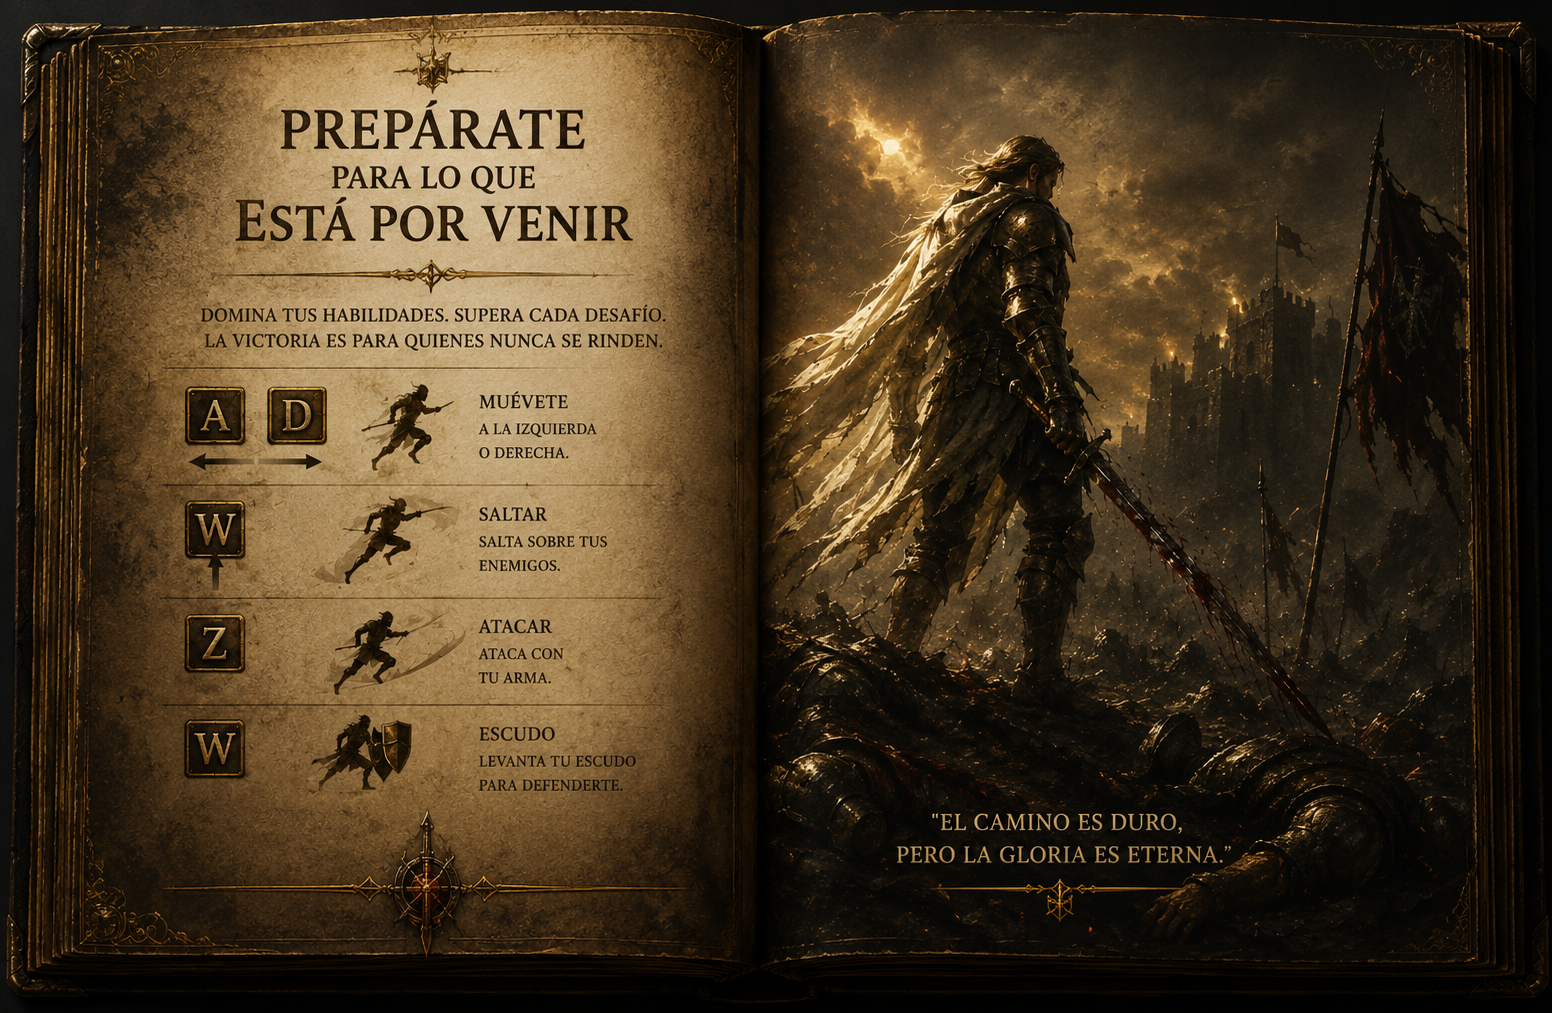
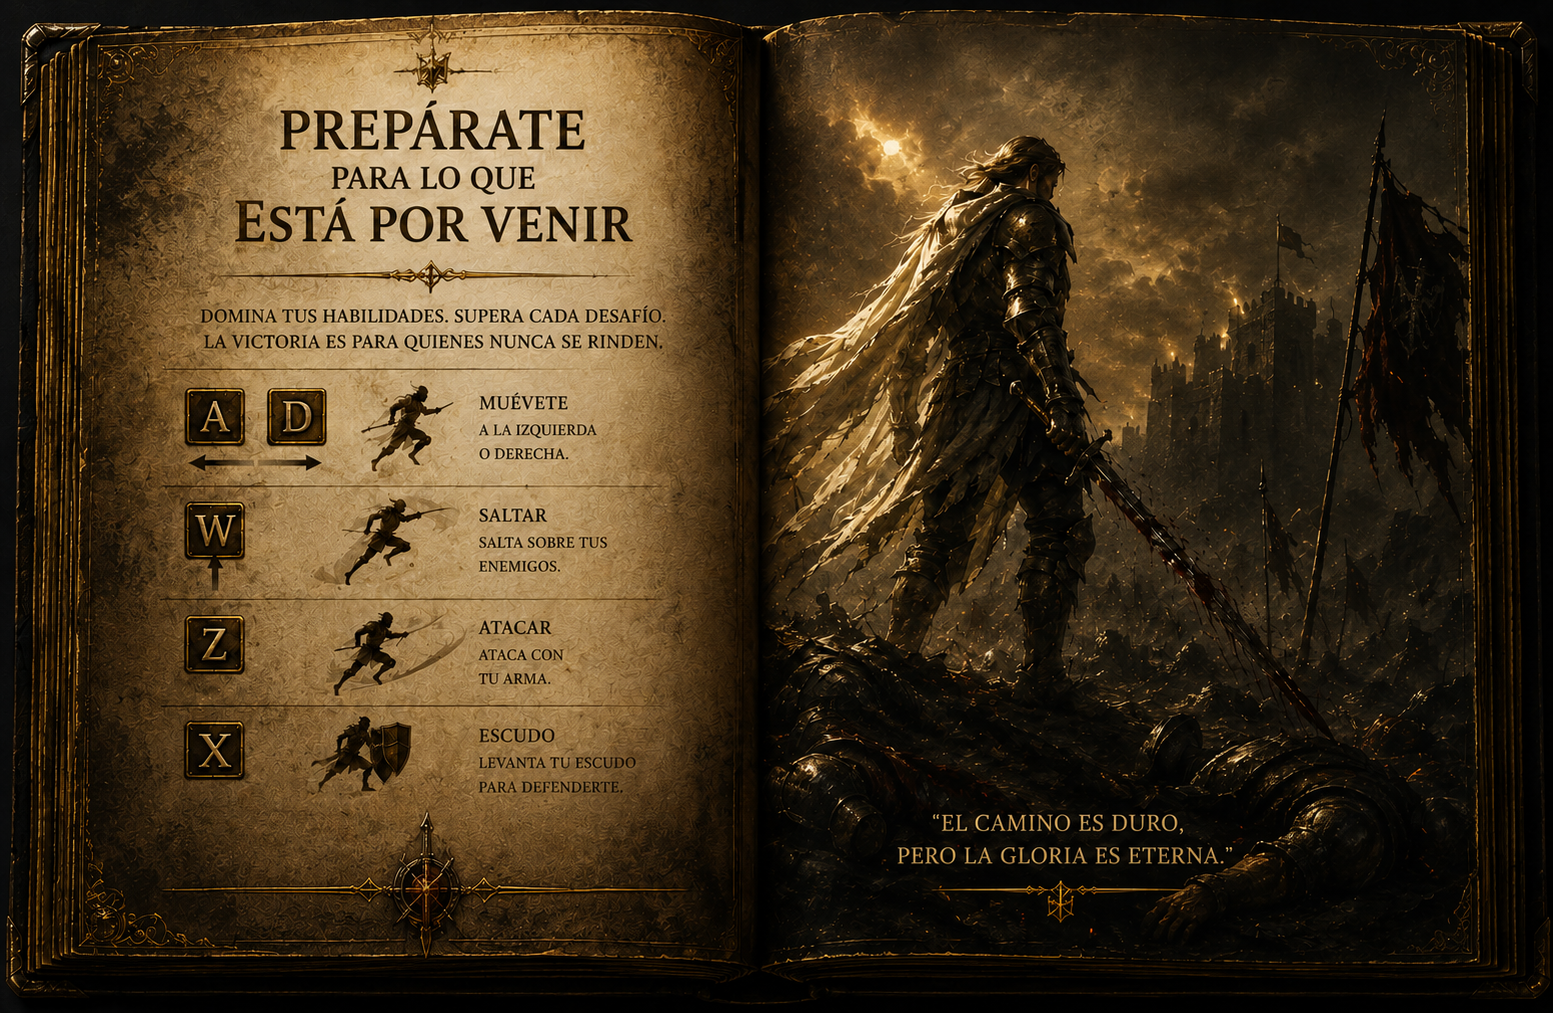
correciones finales, juego listo y funcional, siguiente paso hacer el ejecutable

diff --git a/juego/jugador.cpp b/juego/jugador.cpp
@@ -1,8 +1,8 @@
 #include "jugador.h"
 
-// ════════════════════════════════════════════════════════════
+
 //  Constructor
-// ════════════════════════════════════════════════════════════
+
 Jugador::Jugador(TipoJugador tipo)
 {
     tipoJugador        = tipo;
@@ -32,9 +32,9 @@ Jugador::Jugador(TipoJugador tipo)
         cargarSpriteSheetRobert();
 }
 
-// ════════════════════════════════════════════════════════════
+
 //  Carga de recursos
-// ════════════════════════════════════════════════════════════
+
 void Jugador::cargarSpriteSheetNivel1()
 {
     QPixmap sheet;
@@ -134,22 +134,21 @@ void Jugador::cargarSpriteSheetRobert()
     frameSaltoRobert       = framesRobert[0][3];
     frameSaltoRobertMirror = framesRobertMirror[0][3];
 }
-//════════════════════════════════════════════════════════════
+
 //  Actualización
-// ════════════════════════════════════════════════════════════
 
 void Jugador::actualizarNivel2(float dt)
 {
     if (!esJugadorNivel2()) return;
 
-    // ── Dirección: actualizar según velocidad horizontal ──
+    // Dirección: actualizar según velocidad horizontal
     if      (velMovX > 0.0f) mirandoDerecha = true;
     else if (velMovX < 0.0f) mirandoDerecha = false;
 
-    // ── Movimiento horizontal ──────────────────────────────
+    // Movimiento horizontal
     posicion.x += velMovX * dt;
 
-    // ── Gravedad / salto ───────────────────────────────────
+    // Gravedad / salto
     velY       += GRAVEDAD * dt;
     posicion.y += velY * dt;
 
@@ -164,8 +163,8 @@ void Jugador::actualizarNivel2(float dt)
         enSuelo = false;
     }
 
-    // ── Estado de animación automático ────────────────────
-    // Prioridad: salto > acciones activas > movimiento > idle
+    // Estado de animación automático
+    // Prioridad: salto > acciones activas > movimiento >
     if (!enSuelo)
     {
         estadoAnim = ANIM_SALTO;   // en el aire: frame fijo de salto
@@ -192,7 +191,7 @@ void Jugador::actualizarNivel2(float dt)
 
 }
 
-// ── Avance de frame (compartido) ──────────────────────────────
+//  Avance de frame (compartido)
 void Jugador::avanzarFrame(float dt)
 {
     // El estado ANIM_SALTO usa frame fijo, no animar
@@ -219,9 +218,6 @@ void Jugador::avanzarFrame(float dt)
     }
 }
 
-// ════════════════════════════════════════════════════════════
-//  Renderizado
-// ════════════════════════════════════════════════════════════
 void Jugador::renderizar(QPainter& painter)
 {
     if (tipoJugador == JUGADOR_NIVEL1)
@@ -297,10 +293,7 @@ void Jugador::renderizarNivel2Sprite(QPainter& painter)
                         : frameSaltoRobertMirror;
         }
     }
-
-    // ─────────────────────────────────────────────
     // Caminar / Ataque / Golpe / Bloqueo
-    // ─────────────────────────────────────────────
     else
     {
         int animIdx = static_cast<int>(estadoAnim);
@@ -340,9 +333,7 @@ void Jugador::renderizarNivel2Sprite(QPainter& painter)
     }
 }
 
-// ════════════════════════════════════════════════════════════
 //  Input y movimiento
-// ════════════════════════════════════════════════════════════
 void Jugador::procesarInput(char tecla)
 {
     if      (tecla == 'a' || tecla == 'A') moverIzquierda();
@@ -391,9 +382,8 @@ void Jugador::saltar()
     enSuelo = false;
 }
 
-// ════════════════════════════════════════════════════════════
+
 //  Colisión
-// ════════════════════════════════════════════════════════════
 bool Jugador::colisiona(Jugador* otro)
 {
     if (!otro) return false;
@@ -402,9 +392,8 @@ bool Jugador::colisiona(Jugador* otro)
     return r1.intersects(r2);
 }
 
-// ════════════════════════════════════════════════════════════
 //  Getters / Setters
-// ════════════════════════════════════════════════════════════
+
 float  Jugador::getVida()     const { return vida; }
 float  Jugador::getEscudo()   const { return escudo; }
 float  Jugador::getVelY()     const { return velY; }

diff --git a/juego/jugador.h b/juego/jugador.h
@@ -47,7 +47,7 @@ public:
 
     bool colisiona(Jugador* otro);
 
-    // ── Getters ─────────────────────────────────────────
+    // Getters
     float  getVida()      const;
     float  getEscudo()    const;
     float  getVelY()      const;
@@ -58,7 +58,7 @@ public:
     float& refVelY();
     bool&  refEnSuelo();
 
-    // ── Setters ─────────────────────────────────────────
+    // Setters
     void setVida(float valor);
     void setEscudo(float valor);
     void setVelY(float valor);
@@ -66,12 +66,12 @@ public:
     void usarMovimientoLibre(bool estado);
     void mirarHaciaDerecha(bool derecha);
 
-    // ── Control de animación (Nivel 2) ───────────────────
+    // Control de animación (Nivel 2)
     void            setEstadoAnimacion(EstadoAnimacion estado);
     EstadoAnimacion getEstadoAnimacion() const;
 
 private:
-    // ── Helpers ──────────────────────────────────────────
+    //  Helpers
     void cargarSpriteSheetNivel1();
     void cargarSpriteSheetRhaegar();
     void cargarSpriteSheetRobert();
@@ -82,7 +82,7 @@ private:
     bool usaSpriteTargeryan() const;
     bool usaSpriteRobert() const;
 
-    // ── Estado ───────────────────────────────────────────
+    // Estado
     TipoJugador     tipoJugador;
 
     int   carril;
@@ -98,10 +98,10 @@ private:
 
     Vector3 hitbox;
 
-    // ── Dirección de cara ────────────────────────────────
+    //  Dirección de cara
     bool mirandoDerecha;   // true = sprite normal, false = espejado
 
-    // ── Animación Nivel 1 ────────────────────────────────
+    // Animación Nivel 1
     static const int TOTAL_FRAMES_N1 = 3;
 
     QPixmap framesN1[TOTAL_FRAMES_N1];
@@ -152,7 +152,7 @@ private:
     int             frameActual;
     float           tiempoFrame;
 
-    // ── Constantes ───────────────────────────────────────
+    // Constantes
     static constexpr float DURACION_FRAME   = 0.14f;
     static constexpr float VEL_MOV          = 310.0f;
     static constexpr float FUERZA_SALTO     = -620.0f;

diff --git a/juego/nivel1.cpp b/juego/nivel1.cpp
@@ -78,7 +78,6 @@ Nivel1::~Nivel1()
     delete jefeFinal;
 }
 
-//
 void Nivel1::iniciar()
 {
     delete jugador;
@@ -124,7 +123,7 @@ void Nivel1::actualizar()
     if (!jugador)
         return;
 
-    // ---- Pantalla de fin: espera 1.5 s y transiciona ----
+    // Pantalla de fin: espera 1.5 s y transiciona
     if (finNivel)
     {
         tiempoFinNivel += dt;
@@ -136,11 +135,11 @@ void Nivel1::actualizar()
         return;
     }
 
-    // ---- Avanzar reloj ----
+    // Avanzar reloj
     tiempoJuego      += dt;
     tiempoGeneracion += dt;
 
-    // ---- Si el jugador esta bloqueado forzar carril central ----
+    // Si el jugador esta bloqueado forzar carril central
     if (jugadorBloqueadoCentro)
         jugador->setPosicion(carriles[1], 0.0f, 2.5f);
 
@@ -159,11 +158,11 @@ void Nivel1::actualizar()
     if (tiempoAlerta > 0.0f)
         tiempoAlerta -= dt;
 
-    // ---- Fase jefe: activa a los 50 s ----
+    //  Fase jefe: activa a los 50 s
     if (tiempoJuego >= FASE_JEFE && !jefeFinalActivo)
         activarJefeFinal();
 
-    // ---- Spawn de enemigos: solo antes de los 47 s ----
+    // Spawn de enemigos: solo antes de los 47 s
     if (!jefeFinalActivo
         && tiempoJuego < FASE_FIN_SPAWN
         && tiempoGeneracion >= intervaloActual)
@@ -178,7 +177,7 @@ void Nivel1::actualizar()
     if (!jefeFinalActivo)
         escalarDificultad(dt);
 
-    // ---- Colision con el jefe -> GANA (llego al jefe) ----
+    // Colision con el jefe GANA
     if (jefeFinalActivo && colisionFinal())
     {
         llegoAlFinal   = true;

diff --git a/juego/obstaculo.cpp b/juego/obstaculo.cpp
@@ -1,6 +1,6 @@
 #include "obstaculo.h"
 
-// ── constructor normal ────────────────────────────────────────────────────────
+// constructor normal
 Obstaculo::Obstaculo(float x, float posicionYReal)
 {
     posicion  = {x, 0.0f, 0.0f};
@@ -12,7 +12,7 @@ Obstaculo::Obstaculo(float x, float posicionYReal)
     vy_       = 0.0f;
 }
 
-// ── constructor flecha
+// constructor flecha
 Obstaculo::Obstaculo(float xPantalla, float yPantalla, float vx0, float vy0, bool esFlecha)
 {
     posicion  = {0.0f, 0.0f, 0.0f};
@@ -25,13 +25,13 @@ Obstaculo::Obstaculo(float xPantalla, float yPantalla, float vx0, float vy0, boo
     vy_       = vy0;
 }
 
-// ── actualizar  (obstáculo normal) ─
+//  actualizar  (obstáculo normal)
 void Obstaculo::actualizar()
 {
     // obstáculo estático: nada
 }
 
-// ── actualizar con(flecha: cinemática) ───────────────────────────────────
+// actualizar con(flecha: cinemática)
 void Obstaculo::actualizar(float dt)
 {
     if (!activa) return;

diff --git a/juego/entidad.h b/juego/entidad.h
@@ -22,7 +22,7 @@ public:
     Entidad();
     virtual ~Entidad() {}
 
-    virtual void actualizar() = 0;
+    virtual void actualizar() = 0 ;
     virtual void renderizar(QPainter& painter) = 0;
 
     Vector3 getPosicion() const;

diff --git a/juego/nivel2.cpp b/juego/nivel2.cpp
@@ -353,7 +353,7 @@ void Nivel2::actualizarIA()
     if (velEmpuje2 >  MAX_VEL_EMPUJE) velEmpuje2 =  MAX_VEL_EMPUJE;
     if (velEmpuje2 < -MAX_VEL_EMPUJE) velEmpuje2 = -MAX_VEL_EMPUJE;
 
-    // ── Sincronizar animación de la IA con su estado ────────
+    // Sincronizar animación de la IA con su estado
     // Solo cambiar si no está en medio de un golpe o ataque
     EstadoAnimacion animActual = jugador2->getEstadoAnimacion();
     bool animacionActiva = (animActual == ANIM_ATAQUE || animActual == ANIM_GOLPE);